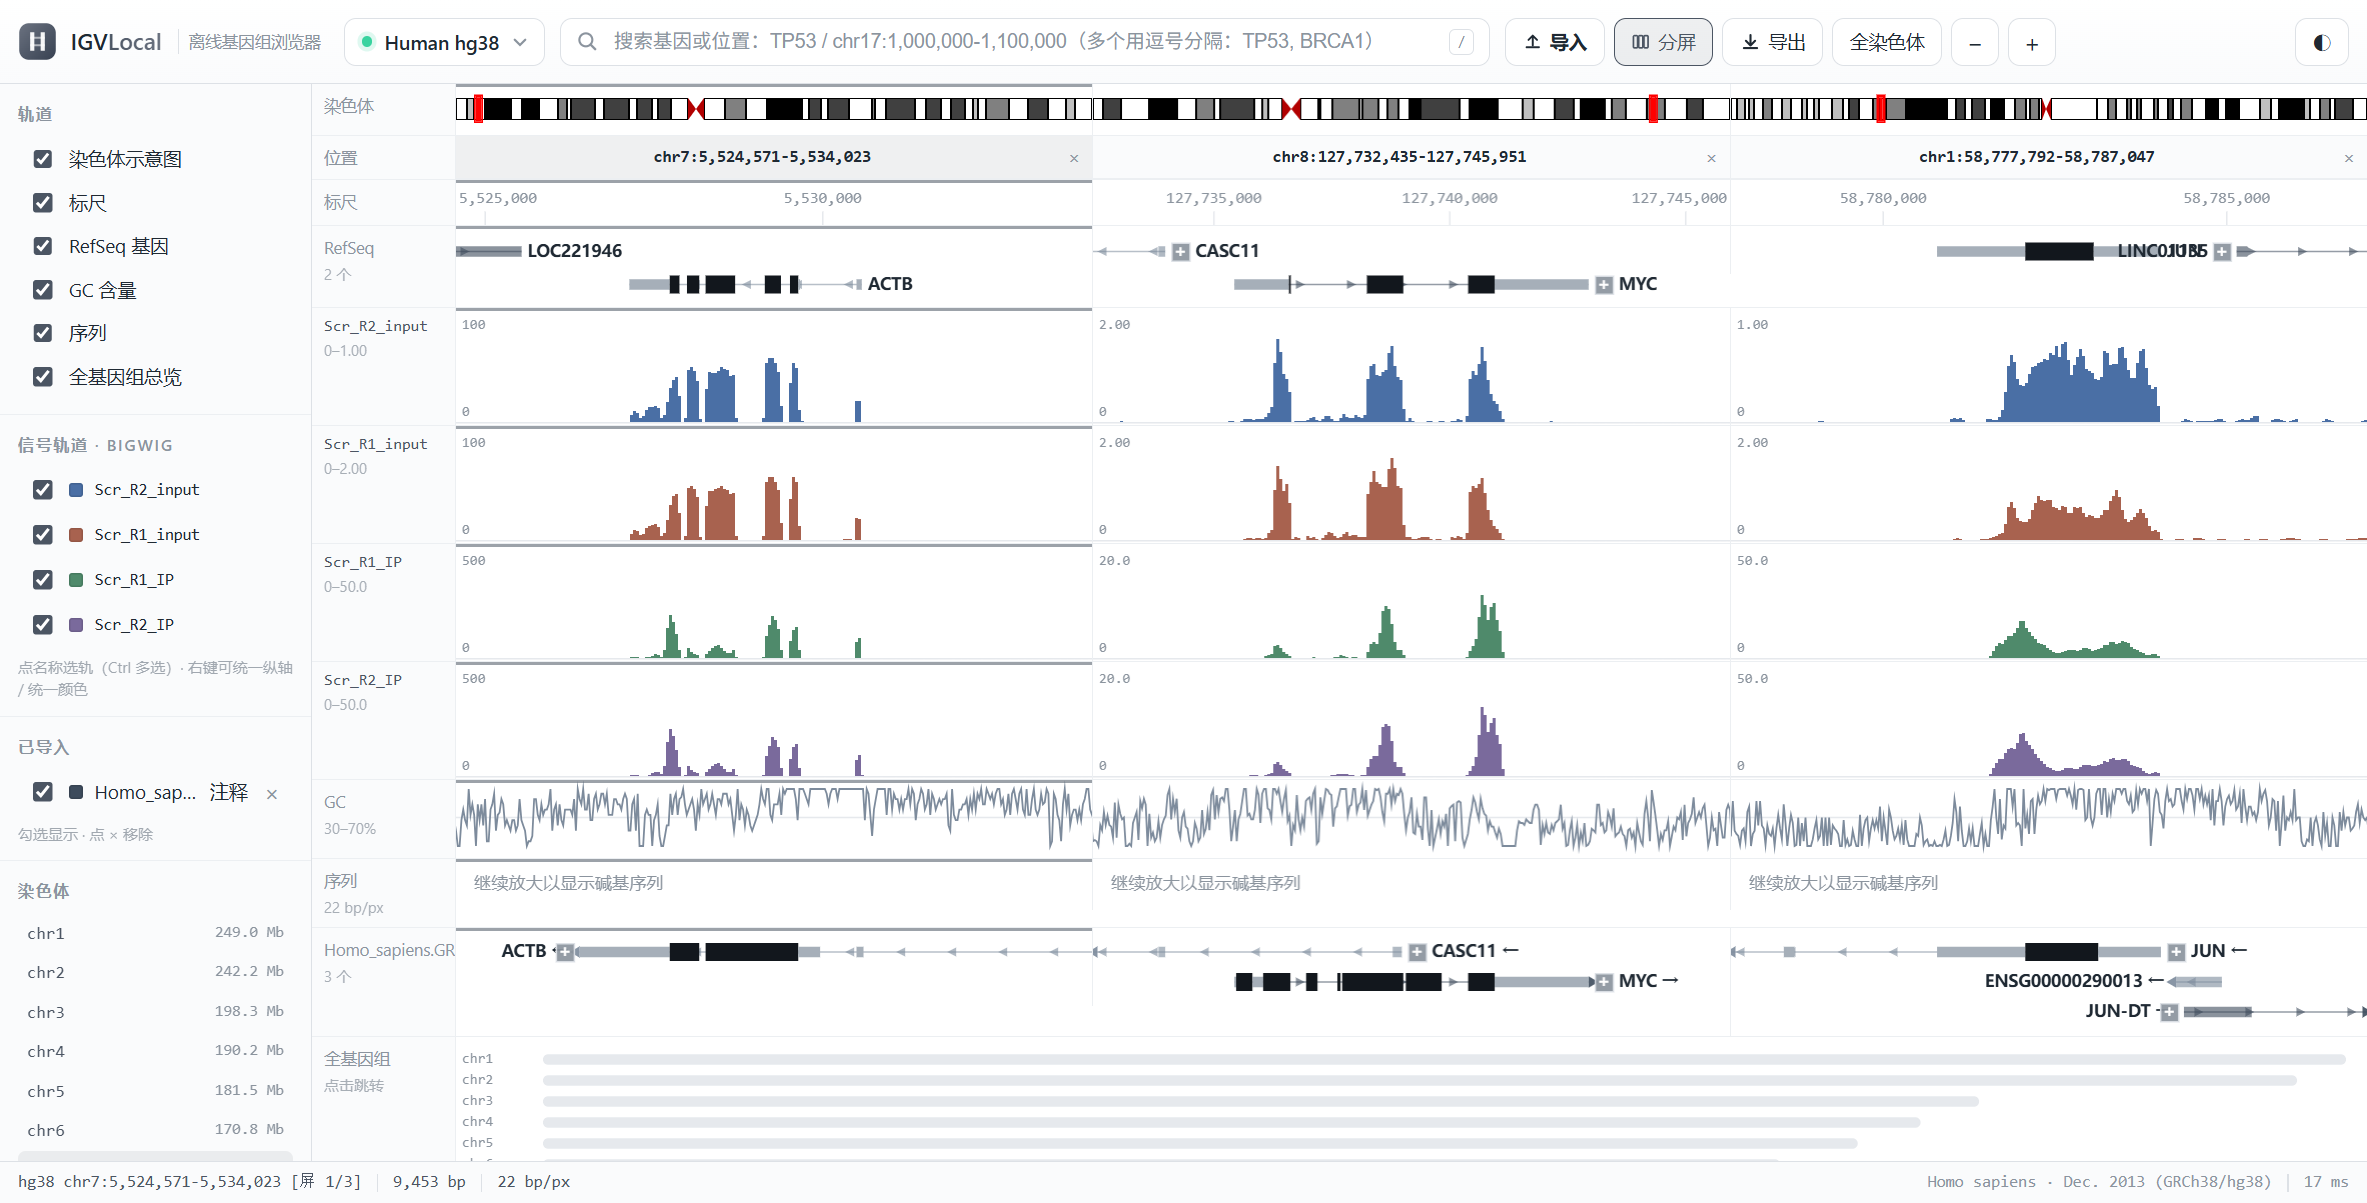
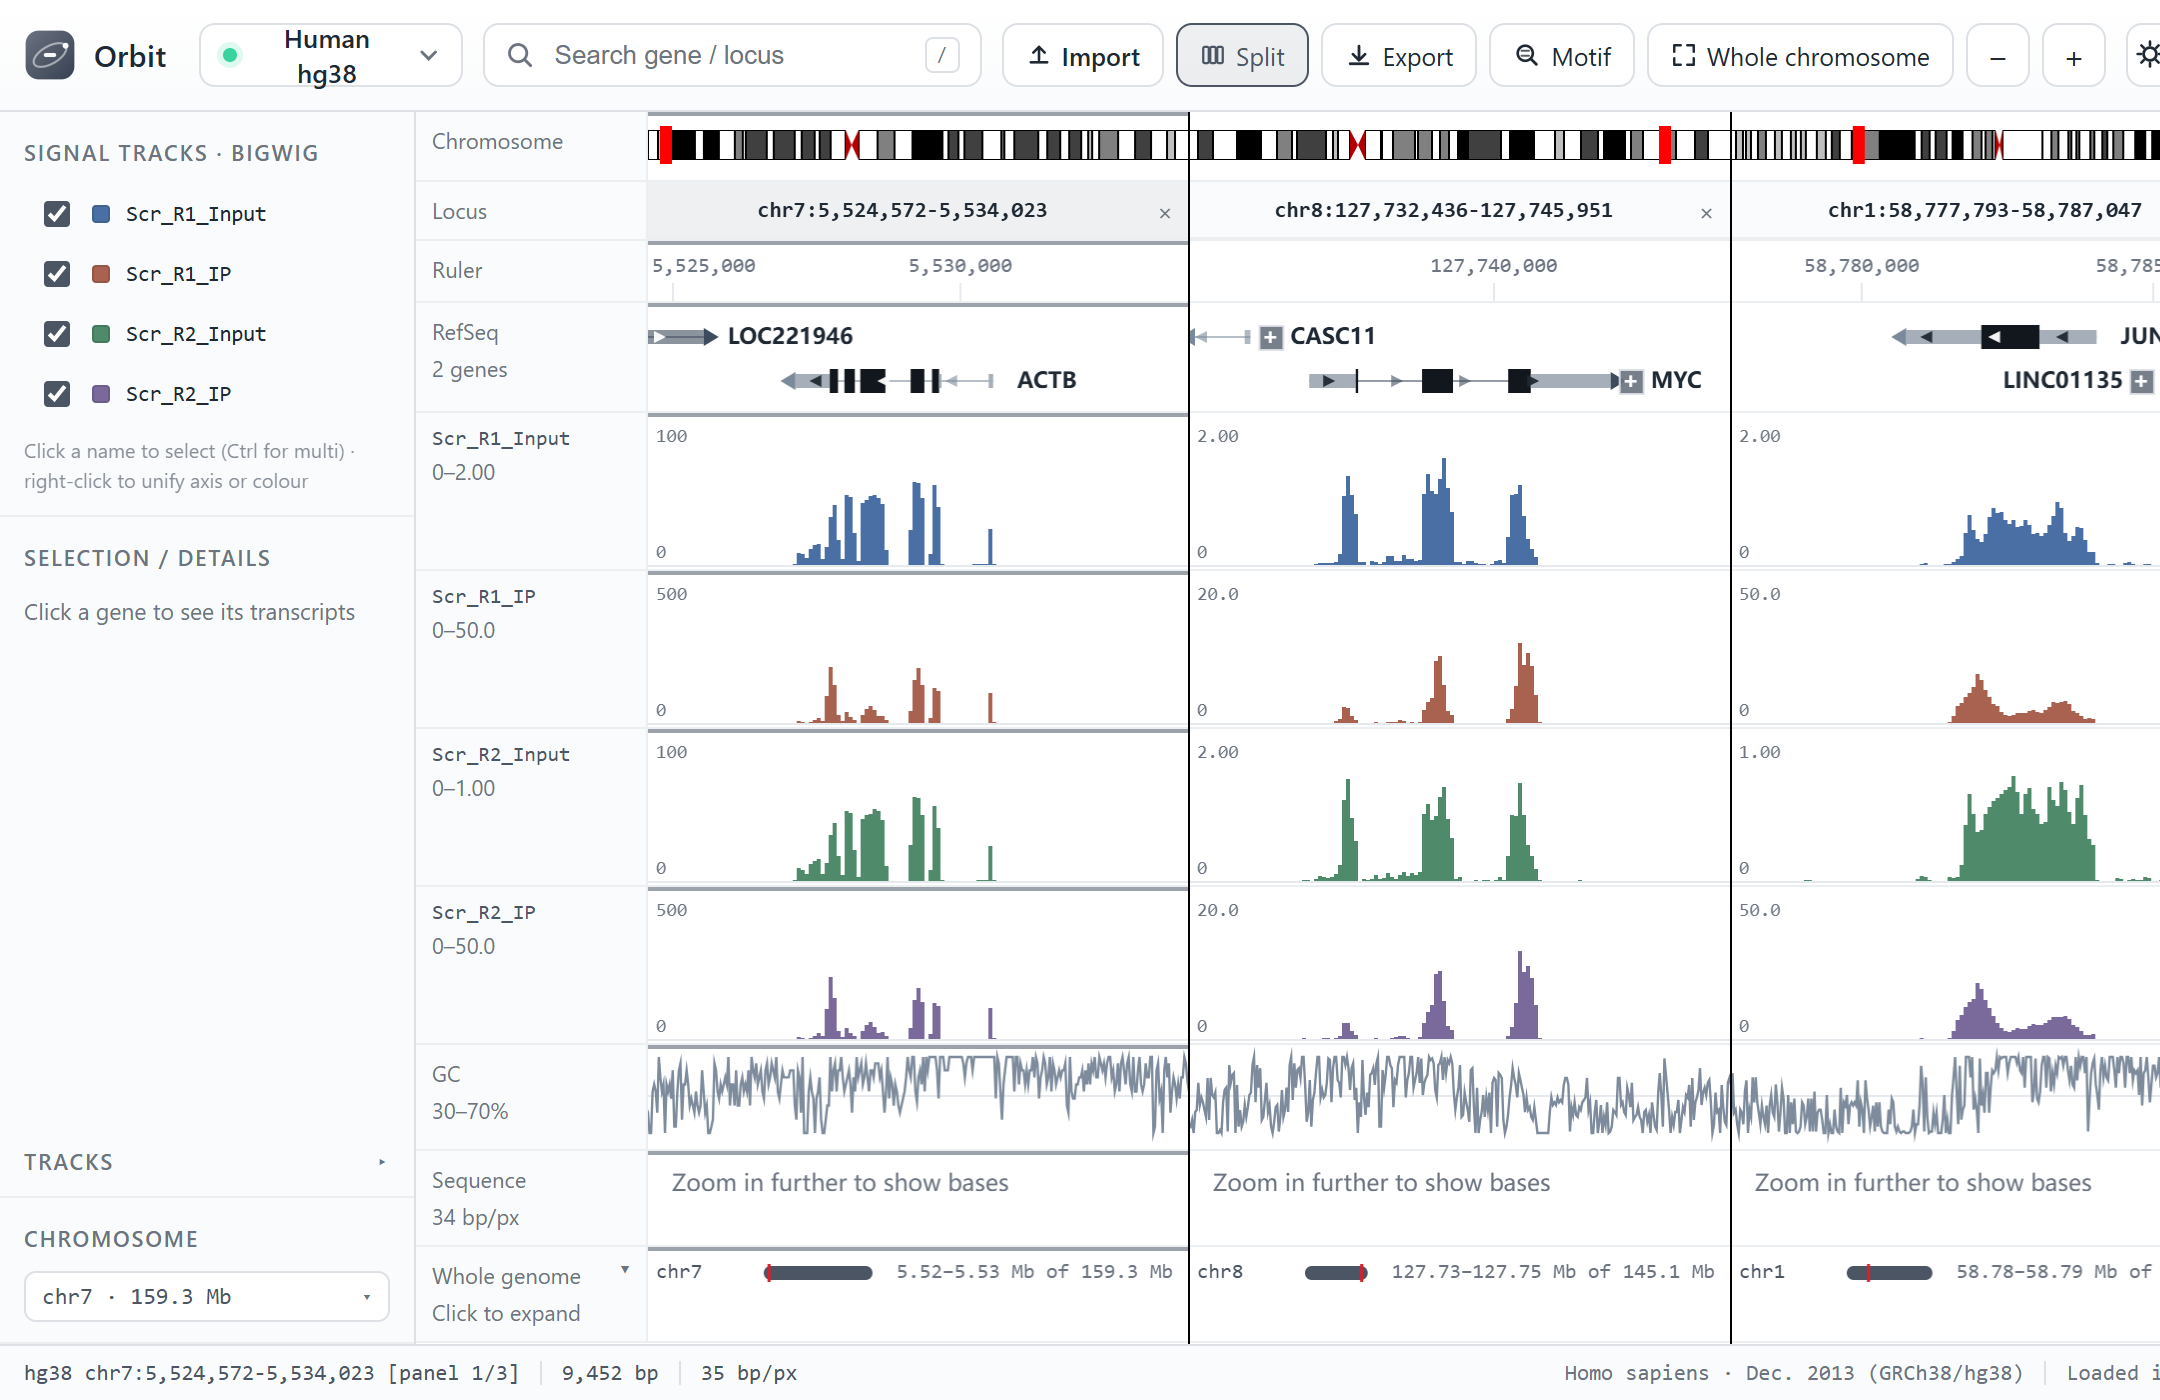
docs: English screenshot with the Orbit name; label gene counts as "N genes"

diff --git a/src/web/app.js b/src/web/app.js
@@ -1395,7 +1395,7 @@
     const gc = $('#geneCount');
     if (gc && S.tracks.genes) {
       const cnt = (d.genes || []).length;
-      gc.textContent = cnt ? T(`${cnt}${d.truncated ? '+' : ''} 个`) : T('无');
+      gc.textContent = cnt ? T(`${cnt}${d.truncated ? '+' : ''} 个基因`) : T('无');
     }
   }
 
@@ -1958,7 +1958,7 @@
     const { ctx } = fitCanvas(canvas, h);
 
     $('#geneCount').textContent = count
-      ? T(`${count}${S.data.truncated ? '+' : ''} 个`) : T('无');
+      ? T(`${count}${S.data.truncated ? '+' : ''} 个基因`) : T('无');
 
     if (!count) {
       ctx.fillStyle = C.muted;
@@ -5998,7 +5998,7 @@
       ctx.font = '11.5px system-ui, sans-serif';
       ctx.textBaseline = 'middle';
       ctx.fillText(T('此区域无注释'), 12, h / 2);
-      if (sub) sub.textContent = T('0 个');
+      if (sub) sub.textContent = T('0 个基因');
       return;
     }
 
@@ -6011,12 +6011,12 @@
       ctx.font = '11.5px system-ui, sans-serif';
       ctx.textBaseline = 'middle';
       ctx.fillText(T('此区域无注释'), 12, h / 2);
-      if (sub) sub.textContent = T('0 个');
+      if (sub) sub.textContent = T('0 个基因');
       return;
     }
     const { ctx, w, h } = fitCanvas(canvas, Math.max(38, lay.rows * LROW + 12));
     setPlaced(lay.placed);
-    if (sub) sub.textContent = T(`${d.truncated ? '≥ ' : ''}${lay.visible} 个`);
+    if (sub) sub.textContent = T(`${d.truncated ? '≥ ' : ''}${lay.visible} 个基因`);
     ctx.textBaseline = 'middle';
 
     const pal = geneTint(t.id);

diff --git a/src/web/i18n.js b/src/web/i18n.js
@@ -329,6 +329,9 @@
     [/^已导出矢量 SVG（(\d+)×(\d+)，([\d,]+) 个图元）$/, 'Exported vector SVG ($1×$2, $3 shapes)'],
     [/^已导出矢量 PDF（(\d+)×(\d+)，([\d,]+) KB）$/, 'Exported vector PDF ($1×$2, $3 KB)'],
     [/^位图 ([\d.]+)×$/, 'Raster $1×'],
+    // 轨道左侧的基因计数（RefSeq / 导入 GTF 的 .sub）。必须排在通用的「N 个」之前，
+    // 否则英文只剩一个光秃秃的数字，看不出量的是什么。
+    [/^(≥ )?([\d,]+)(\+?) 个基因$/, '$1$2$3 genes'],
     [/^([\d,]+)(\+?) 个$/, '$1$2'],
     [/^(≥ )?([\d,]+) 个$/, '$1$2'],
     [/^仅显示前 ([\d,]+) 个基因，请放大查看$/, 'Showing the first $1 genes — zoom in to see the rest'],
